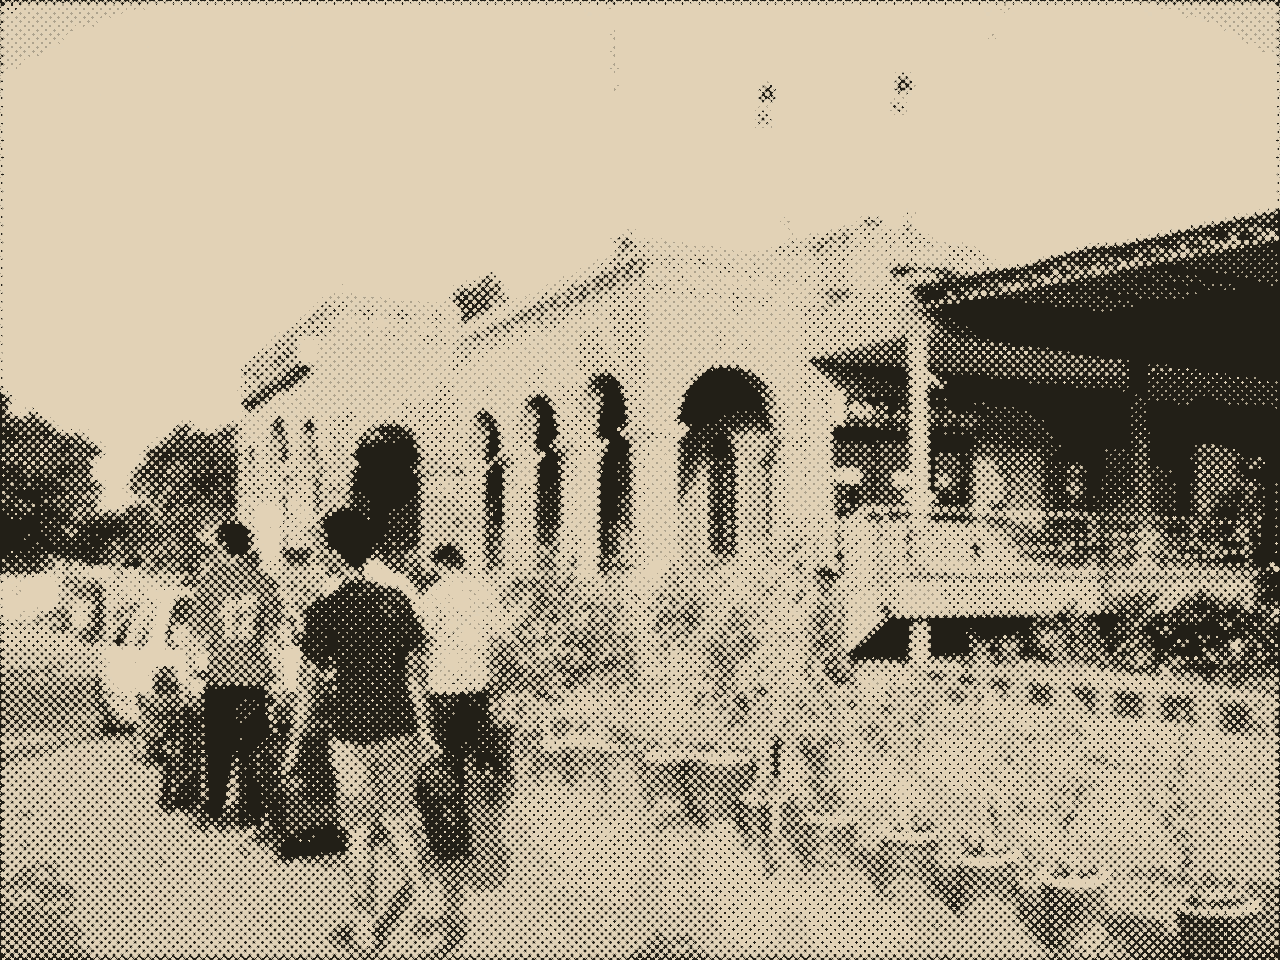
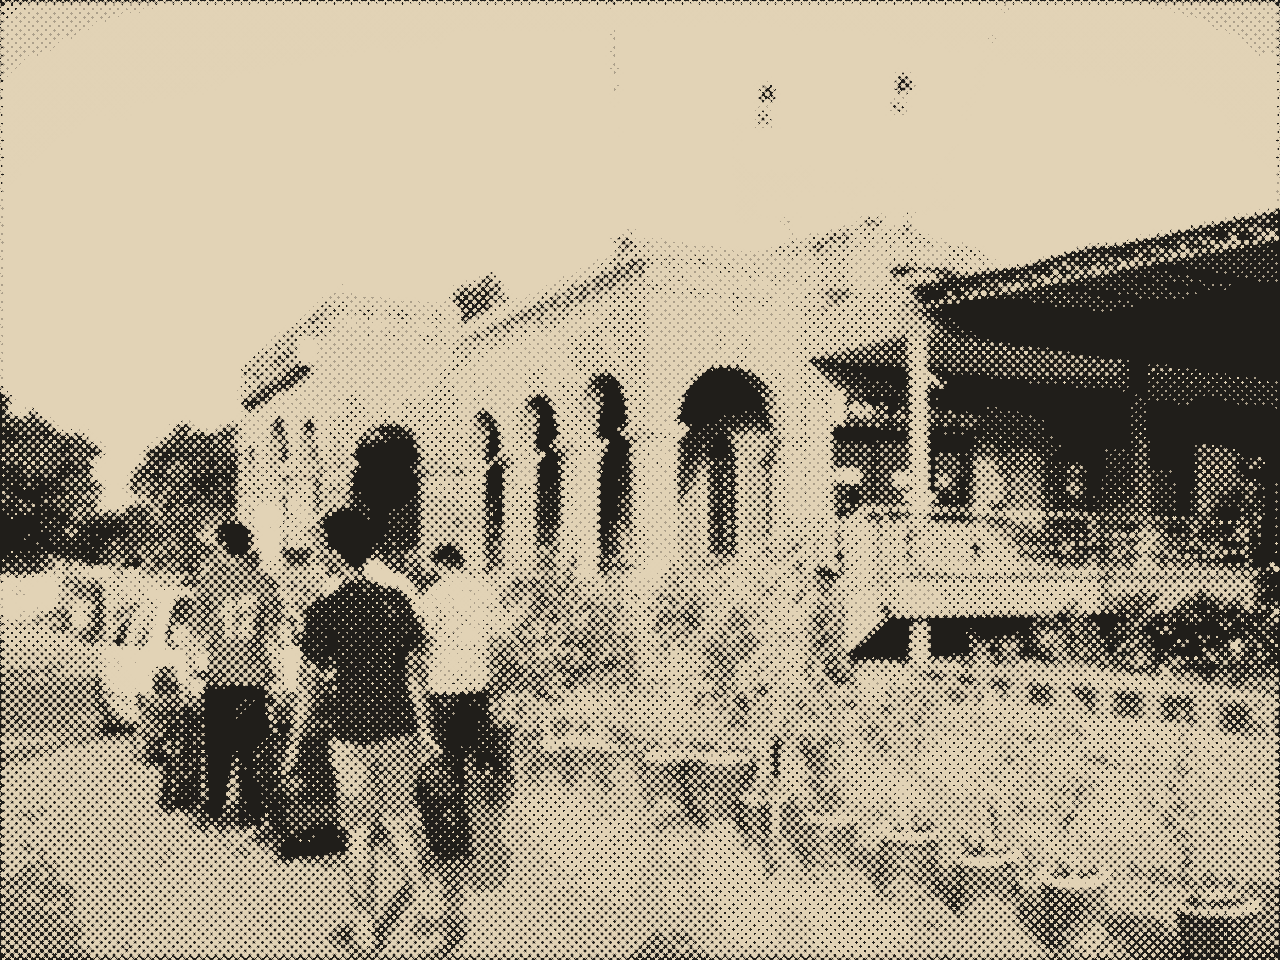
Grain under the tab bar, a motion duration check, and the halftone script
- The fade strip above the phone tab bar uses the grainy paper too.
- check:design (C5) fails on animations over 300ms; DESIGN.md names the
  motions allowed to run longer, with reasons.
- scripts/halftone.py makes the Home photo prints; they were regenerated
  with it.

Claude-Session: https://claude.ai/code/session_01KMX8YgVyAEEbRayQVQssk2

diff --git a/src/index.css b/src/index.css
@@ -275,7 +275,10 @@ a {
   bottom: 100%;
   height: 1rem;
   pointer-events: none;
-  background: linear-gradient(to top, var(--color-paper), transparent);
+  /* Grainy paper faded out with a mask, so the strip matches the page */
+  background-color: var(--color-paper);
+  background-image: var(--paper-grain);
+  mask-image: linear-gradient(to top, black, transparent);
 }
 
 /* ---- More contrast (a device accessibility setting) -----------------------

diff --git a/scripts/halftone.py b/scripts/halftone.py
@@ -1,0 +1,69 @@
+"""Print a photo as a two-colour halftone, like a newspaper photo.
+
+Made the Home page's terminal photo prints (src/assets/home/
+photo-daewoo-terminal-halftone-{light,dark}.png). Run it again only if the
+photo changes. It is a one-off tool, not part of the site; it needs Python 3
+and Pillow (pip install pillow).
+
+Usage, from the project folder:
+  python3 scripts/halftone.py light   # label black dots on kraft
+  python3 scripts/halftone.py dark    # kraft dots on label black
+"""
+import math
+import sys
+
+from PIL import Image, ImageDraw, ImageOps
+
+SOURCE = 'src/assets/home/photo-daewoo-terminal.webp'
+OUTPUT = 'src/assets/home/photo-daewoo-terminal-halftone-{}.png'
+INK, PAPER = (0x1C, 0x1A, 0x17), (0xE2, 0xD3, 0xB6)  # --color-ink, --color-paper (light theme)
+CELL = 6        # dot spacing in pixels
+CURVE = 1.2     # above 1 keeps the mid-tones lighter, so detail survives
+ANGLE = 45      # screen angle, as in print
+SMOOTH = 4      # draw at 4x size, then shrink, for round dots
+
+
+def halftone(mode):
+    photo = Image.open(SOURCE).convert('L')
+    photo = ImageOps.autocontrast(photo, cutoff=1)
+    if mode == 'dark':
+        # On a dark page the dots are pale, so they must stand for the light
+        # parts of the photo; otherwise the print reads as a negative.
+        photo = ImageOps.invert(photo)
+        dot, ground = PAPER, INK
+    else:
+        dot, ground = INK, PAPER
+
+    width, height = photo.size
+    turned = photo.rotate(ANGLE, expand=True, fillcolor=255)
+    tw, th = turned.size
+    pixels = turned.load()
+    mask = Image.new('L', (tw * SMOOTH, th * SMOOTH), 0)
+    draw = ImageDraw.Draw(mask)
+    for y in range(0, th, CELL):
+        for x in range(0, tw, CELL):
+            # How much ink this cell needs (0 = none, 1 = solid)
+            samples = [pixels[xx, yy] for yy in range(y, min(y + CELL, th), 2)
+                       for xx in range(x, min(x + CELL, tw), 2)]
+            ink = 1 - sum(samples) / len(samples) / 255
+            ink = (max(0.0, ink - 0.06) / 0.94) ** CURVE
+            radius = CELL * 0.74 * math.sqrt(ink) * SMOOTH
+            if radius > 0.3 * SMOOTH:
+                cx, cy = (x + CELL / 2) * SMOOTH, (y + CELL / 2) * SMOOTH
+                draw.ellipse((cx - radius, cy - radius, cx + radius, cy + radius), fill=255)
+
+    mask = mask.resize((tw, th), Image.LANCZOS).rotate(-ANGLE, fillcolor=0)
+    mw, mh = mask.size
+    left, top = (mw - width) // 2, (mh - height) // 2
+    mask = mask.crop((left, top, left + width, top + height))
+    printed = Image.composite(Image.new('RGB', (width, height), dot),
+                              Image.new('RGB', (width, height), ground), mask)
+    # Four colours (ink, paper and two edge tones) keep the file small.
+    printed.quantize(4).save(OUTPUT.format(mode), optimize=True)
+    print('Saved', OUTPUT.format(mode))
+
+
+if __name__ == '__main__':
+    if len(sys.argv) != 2 or sys.argv[1] not in ('light', 'dark'):
+        sys.exit(__doc__)
+    halftone(sys.argv[1])

diff --git a/BUILD_LOG.md b/BUILD_LOG.md
@@ -1574,3 +1574,24 @@ Kept on purpose:
 - **Checked:** before and after at 1440px and 390px in both themes; all 12
   tests pass; the design check is clean; axe is clean on 8 pages in both
   themes.
+
+## Stage 58: grain under the tab bar, a duration check, the halftone script
+
+- **Grain above the phone tab bar:** the 16px strip where the page fades
+  into the tab bar was flat paper colour, so it showed as a smooth band
+  against the grain. It now uses the grainy paper, faded out with a mask.
+- **Motion durations are now checked (C5 in `npm run check:design`):**
+  - it reads every animation and transition in `src/index.css` and fails on
+    any lasting over 300ms;
+  - the motions allowed to run longer are now named in DESIGN.md and in
+    `LONG_MOTION_ALLOWED`: the success tick and the "Paid" stop; the Home
+    intro, price bars, code and photo fade (once per visit); and the AI
+    check's 8-second wait bar;
+  - tested by putting the old 350ms delivery road back: the check caught it
+    with the right line number.
+- **`scripts/halftone.py`:** the Pillow script that prints the terminal photo
+  as a halftone (`light` or `dark`). The two prints were regenerated with it
+  so the files match the script; they differ from the approved ones by about
+  2/255 on average, which doesn't show.
+- **Checked:** all 12 tests pass, the design check (with C5) is clean, and
+  axe is clean on 8 pages in both themes.

diff --git a/DESIGN.md b/DESIGN.md
@@ -80,6 +80,19 @@ style and the old instruction not to change the design style.
   Why: motion that is short and consistent makes the app feel fast; one
   celebration keeps it special.
   <!-- 2026-11-24: approved the timing findings from the animation audit -->
+- **Named exceptions to the 300ms limit.** Only these may run longer. The
+  check lists them in `LONG_MOTION_ALLOWED` (`scripts/check-design.cjs`), and
+  a new one is added in both places, with its reason:
+  - the success tick and the delivery tracker's "Paid" stop settling (the
+    one celebration);
+  - the Home intro, once per visit: the hero, the route drawing, the city
+    stops and the parcel's ride;
+  - Home's price bars and departure-board code, once per visit;
+  - Home photos fading in once they have loaded;
+  - the bar that shows the AI check's 8-second wait (a timer, not an effect).
+  Why: the 300ms rule was written without them, so the check could not
+  enforce it, and a 350ms delivery road went unnoticed until 25 November.
+  <!-- 2026-11-25: "do 1, 2 and 3" (name the exceptions, check durations) -->
 
 ## Interaction
 
